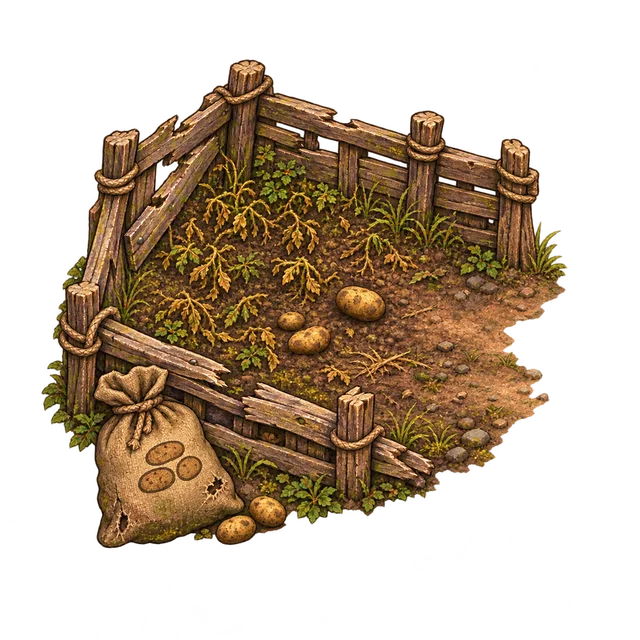
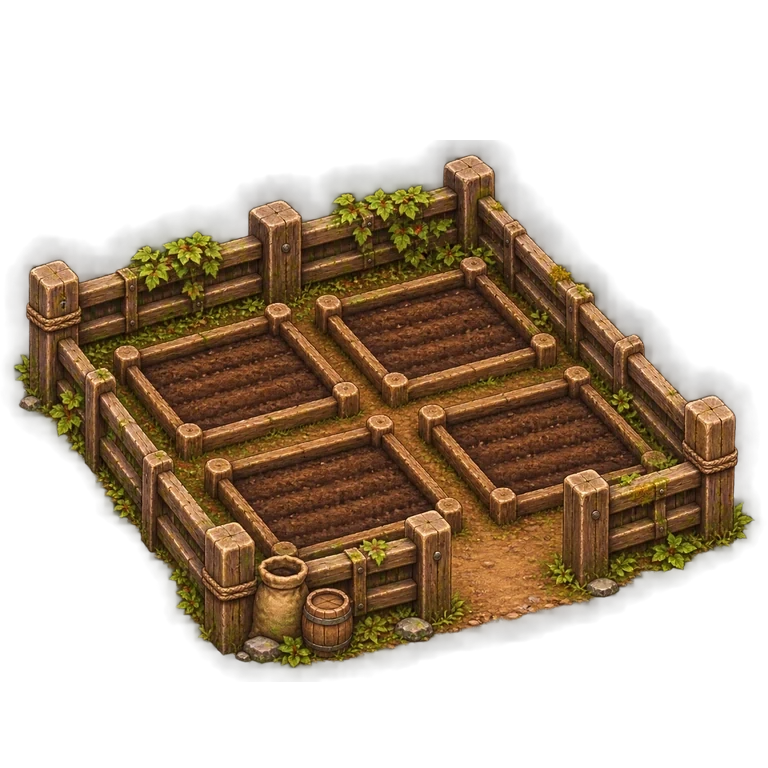
Replace camp potato garden with approved four-bed fenced asset

diff --git a/src/potato-patch-renderer.ts b/src/potato-patch-renderer.ts
@@ -3,34 +3,61 @@ import {potatoGrowth,potatoPatch} from './potato-farming';
 import {POTATO_PATCH_BROKEN,POTATO_WILD_PICKED,POTATO_WILD_RIPE,potatoStageUrl} from './potato-patch-art';
 import {assetImageKey} from './world-assets';
 import {placementBounds,type Placement} from './world-layout';
-import {timeOf,type World} from './survival-engine';
+import type {World} from './survival-engine';
 
 type Ctx=CanvasRenderingContext2D;
 type LoadedImages=Record<string,HTMLImageElement>;
 
-/** The game uses the approved paintings directly; no procedural fence or foliage.
- * All frames for a tier share the same anchor and texture dimensions. */
+/** Four individually planted positions on the approved square-padded painted asset.
+ * Keep these in this order so every crop belongs to a real, visible soil bed. */
+const BED_CENTRES=[[.345,.485],[.632,.443],[.404,.677],[.716,.645]] as const;
+
+/** Draw only the living crop on top of the fixed garden illustration.
+ * Former stage paintings must never replace the new fence or the four beds. */
+function drawPotatoSprout(ctx:Ctx,x:number,y:number,scale:number,growth:number){
+ const g=Math.max(0,Math.min(1,growth));
+ const radius=(2.5+7*Math.pow(g,.7))*scale;
+ ctx.save();
+ ctx.fillStyle='rgba(48,31,15,0.24)';
+ ctx.beginPath();ctx.arc(x,y+radius*.4,radius*.86,0,Math.PI*2);ctx.fill();
+ ctx.strokeStyle='#52662d';ctx.lineWidth=Math.max(.8,radius*.19);
+ ctx.beginPath();ctx.moveTo(x,y);ctx.lineTo(x,y-radius*.85);ctx.stroke();
+ const leaves=[[-.87,-.48,.68,'#567b30'],[.87,-.58,.68,'#6a8a38'],[-.52,-1.03,.61,'#8a9d46'],[.54,-1.10,.65,'#6e8d38'],[0,-1.32,.52,'#91a451']] as const;
+ for(const [dx,dy,ratio,color] of leaves){
+  ctx.fillStyle=color;ctx.beginPath();ctx.arc(x+dx*radius,y+dy*radius,radius*ratio,0,Math.PI*2);ctx.fill();
+ }
+ if(g>=.93){
+  ctx.fillStyle='#d0c58b';
+  for(const [dx,dy] of [[-.4,-.9],[.35,-.65],[.05,-1.28]]){
+   ctx.beginPath();ctx.arc(x+dx*radius,y+dy*radius,radius*.16,0,Math.PI*2);ctx.fill();
+  }
+ }
+ ctx.restore();
+}
+
+/** One fixed road-facing four-plot asset for broken, Tier 1 and Tier 2.
+ * Repairs, planting, harvesting, and upgrade logic are unchanged. */
 export function drawPotatoPatch(ctx:Ctx,imgs:LoadedImages,w:World,p:Placement){
  if(!p.assetId.startsWith('art_camp_garden_'))return false;
  const broken=!buildingRestored(w,'garden')||(p.assetId==='art_camp_garden_broken'&&!w.progression);
  const patch=potatoPatch(w);
  const tier=broken?0:(w.editorPreview&&p.assetId==='art_camp_garden_t2'?2:patch.tier);
- let imageUrl=POTATO_PATCH_BROKEN;
- if(tier){
-  const highestGrowth=patch.plantedAt.length?Math.max(...patch.plantedAt.map(start=>potatoGrowth(w,start))):0;
-  const recentlyHarvested=!patch.plantedAt.length&&patch.harvestedAt!==undefined&&timeOf(w)-patch.harvestedAt<8;
-  const stage=recentlyHarvested?5:!patch.plantedAt.length?0:Math.min(4,Math.floor(highestGrowth*5)) as 0|1|2|3|4|5;
-  imageUrl=potatoStageUrl(tier,stage);
- }
+ const imageUrl=tier?potatoStageUrl(tier,0):POTATO_PATCH_BROKEN;
  const sprite=imgs[assetImageKey(imageUrl)];
  if(!sprite)return false;
  const bounds=placementBounds(p),scale=tier===2?1.12:1;
  const width=bounds.width*scale,height=bounds.height*scale;
- ctx.drawImage(sprite,bounds.x-(width-bounds.width)/2,bounds.y+bounds.height-height,width,height);
+ const left=bounds.x-(width-bounds.width)/2,top=bounds.y+bounds.height-height;
+ ctx.drawImage(sprite,left,top,width,height);
+ if(!tier||w.editorPreview)return true;
+ for(let index=0;index<patch.plantedAt.length&&index<BED_CENTRES.length;index++){
+  const [rx,ry]=BED_CENTRES[index];
+  drawPotatoSprout(ctx,left+rx*width,top+ry*height,width/340,potatoGrowth(w,patch.plantedAt[index]));
+ }
  return true;
 }
 
-/** The same shared artwork is used before and after a wild potato is picked. */
+/** Wild potatoes continue to use their own existing sprite pair. */
 export function drawWildPotatoPlant(ctx:Ctx,imgs:LoadedImages,w:World,p:Placement,ripe:boolean){
  const image=imgs[assetImageKey(ripe?POTATO_WILD_RIPE:POTATO_WILD_PICKED)];
  if(!image)return false;

diff --git a/src/potato-patch-art.ts b/src/potato-patch-art.ts
@@ -1,13 +1,14 @@
-/** Approved 9 November 2026 potato illustrations, shared by web and iOS. */
+/** The four-plot painted garden replaces the former patch in web and iOS. */
 export const POTATO_PATCH_ROOT='/survival/potato-patch-v2';
-export const potatoStageUrl=(tier:1|2,stage:0|1|2|3|4|5)=>
- `${POTATO_PATCH_ROOT}/tier-${tier}-stage-${stage}.webp`;
+/** Growth is now drawn separately into the four real beds, so the fence and beds never swap artwork. */
+export const potatoStageUrl=(tier:1|2,_stage:0|1|2|3|4|5)=>
+ `${POTATO_PATCH_ROOT}/tier-${tier}-stage-0.webp`;
 export const POTATO_PATCH_BROKEN=`${POTATO_PATCH_ROOT}/broken.webp`;
 export const POTATO_WILD_RIPE=`${POTATO_PATCH_ROOT}/wild-ripe.webp`;
 export const POTATO_WILD_PICKED=`${POTATO_PATCH_ROOT}/wild-picked.webp`;
 export const POTATO_ITEM_IMAGE=`${POTATO_PATCH_ROOT}/potato-item.webp`;
 export const POTATO_PATCH_IMAGES=[
  POTATO_PATCH_BROKEN,
- ...([1,2] as const).flatMap(tier=>([0,1,2,3,4,5] as const).map(stage=>potatoStageUrl(tier,stage))),
+ potatoStageUrl(1,0),potatoStageUrl(2,0),
  POTATO_WILD_RIPE,POTATO_WILD_PICKED,POTATO_ITEM_IMAGE,
 ];

diff --git a/src/camp-garden-art.ts b/src/camp-garden-art.ts
@@ -1,7 +1,7 @@
 /** One registered canvas and ground lot for the abandoned patch and its upgrades. */
 export const GARDEN_FAMILY='Potato patch';
 export const GARDEN_PLACEMENT_ID='camp-garden-v1';
-export const GARDEN_CANVAS=512;
+export const GARDEN_CANVAS=768;
 export const GARDEN_ANCHOR=[.5,.90] as const;
 export const GARDEN_WIDTH=340;
 export const GARDEN_ART=[
